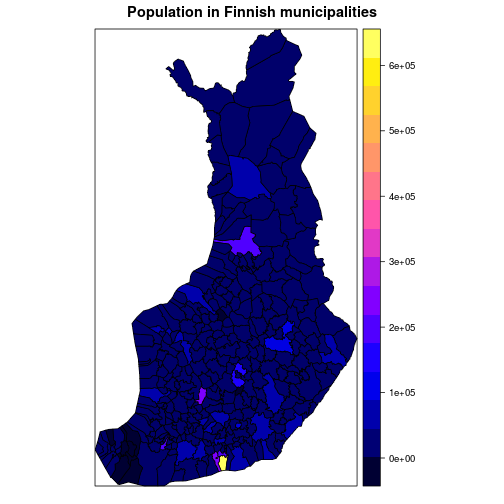
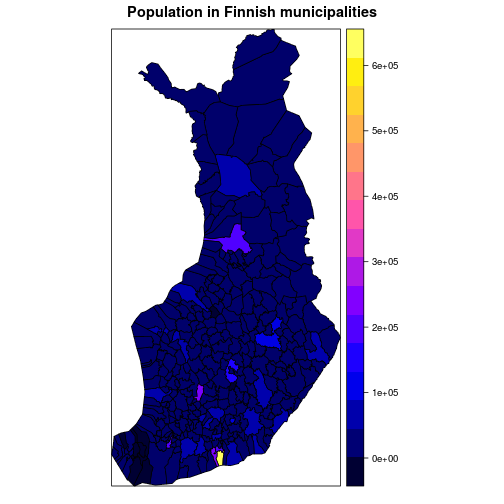
added new man files

Changed region(s): [[0.1786, 0.0298, 0.8333, 0.9821]]

diff --git a/vignettes/gisfin_tutorial.md b/vignettes/gisfin_tutorial.md
@@ -412,15 +412,13 @@ Visualize municipality population data with Land Survey Finland (MML) maps:
 
 ```r
 # Get the municipality map for visualization
-sp <- get_mml(map.id="Yleiskartta-1000", data.id="HallintoAlue")
-# Convert municipality ID to character (for matching)
-sp@data$Kunta <- as.character(sp@data$Kunta)
+sp <- get_municipality_map(data.source = "MML")
 
 # Merge the Finnish map shape file and the population data based on
 # the 'Kunta' field. The population data contains also some other
 # regions besides municipalities. These will be ignored when merged
 # with the municipality map:
-sp2 <- sp::merge(sp, mydata, all.x = TRUE, by.x = "Kunta", by.y="Kuntakoodi")
+sp2 <- sp::merge(sp, mydata, all.x = TRUE, by.x = "kuntakoodi", by.y="Kuntakoodi")
 
 # Plot the shape file, colour municipalities by population
 spplot(sp2, zcol="Asukasluku", colorkey=TRUE, main = "Population in Finnish municipalities")
@@ -428,8 +426,18 @@ spplot(sp2, zcol="Asukasluku", colorkey=TRUE, main = "Population in Finnish muni
 
 ![plot of chunk gisfin-owndata1](figure/gisfin-owndata1-1.png) 
 
+You can also use fast wrapper for interactive visualization. This generates ggplot2-object that can be further modified if necessary:
 
-Same with GADM maps. You can select the desired maps at the [GADM service](http://gadm.org/country). Choose Finland and file format R. This will give the [link to the Finnish municipality data file](http://biogeo.ucdavis.edu/data/gadm2/R/FIN_adm4.RData):
+
+```r
+p <- region_plot(sp2, color = "Asukasluku", region = "kuntakoodi")
+print(p)
+```
+
+![plot of chunk regionplotwrapper](figure/regionplotwrapper-1.png) 
+
+
+Same with GADM maps. You can select the desired maps at the [GADM service](http://gadm.org/country). Choose Finland and file format R. This will give the [link to the Finnish municipality data file](http://biogeo.ucdavis.edu/data/gadm2/R/FIN_adm4.RData). GADM contains very useful maps but the Finnish municipality map data seems a bit outdated:
 
 
 ```r
@@ -451,6 +459,8 @@ spplot(gadm2, zcol="Asukasluku", colorkey=TRUE, main = "Population in Finnish mu
 ```
 
 ![plot of chunk gisfin-owndata2](figure/gisfin-owndata2-1.png) 
+
+
 
 
 ----
@@ -649,21 +659,21 @@ sessionInfo()
 ## [1] stats     graphics  grDevices utils     datasets  methods   base     
 ## 
 ## other attached packages:
-##  [1] pxweb_0.5.53       raster_2.3-40      sotkanet_0.9.11   
-##  [4] rjson_0.2.15       RCurl_1.95-4.6     bitops_1.0-6      
-##  [7] ggplot2_1.0.1      maptools_0.8-36    gisfin_0.9.24     
-## [10] R6_2.0.1           rgdal_0.9-3        sp_1.1-0          
-## [13] knitr_1.10.5       scimapClient_0.2.1
+##  [1] raster_2.3-40      pxweb_0.5.53       ggplot2_1.0.1     
+##  [4] maptools_0.8-36    gisfin_0.9.25      R6_2.0.1          
+##  [7] rgdal_0.9-3        sp_1.1-0           knitr_1.10.5      
+## [10] scimapClient_0.2.1
 ## 
 ## loaded via a namespace (and not attached):
 ##  [1] Rcpp_0.11.6      spdep_0.5-88     formatR_1.2      plyr_1.8.2      
-##  [5] LearnBayes_2.15  tools_3.2.0      boot_1.3-16      digest_0.6.8    
-##  [9] jsonlite_0.9.16  evaluate_0.7     gtable_0.1.2     nlme_3.1-120    
-## [13] lattice_0.20-31  Matrix_1.2-0     proto_0.3-10     coda_0.17-1     
-## [17] httr_0.6.1       stringr_1.0.0    rgeos_0.3-8      grid_3.2.0      
-## [21] data.table_1.9.4 XML_3.98-1.2     foreign_0.8-63   RJSONIO_1.3-0   
-## [25] reshape2_1.4.1   deldir_0.1-9     magrittr_1.5     scales_0.2.4    
-## [29] MASS_7.3-40      splines_3.2.0    colorspace_1.2-6 labeling_0.3    
-## [33] stringi_0.4-1    munsell_0.4.2    chron_2.3-45
+##  [5] bitops_1.0-6     LearnBayes_2.15  tools_3.2.0      boot_1.3-16     
+##  [9] digest_0.6.8     jsonlite_0.9.16  evaluate_0.7     gtable_0.1.2    
+## [13] nlme_3.1-120     lattice_0.20-31  Matrix_1.2-0     proto_0.3-10    
+## [17] coda_0.17-1      httr_0.6.1       stringr_1.0.0    rgeos_0.3-8     
+## [21] grid_3.2.0       data.table_1.9.4 XML_3.98-1.2     foreign_0.8-63  
+## [25] RJSONIO_1.3-0    reshape2_1.4.1   deldir_0.1-9     magrittr_1.5    
+## [29] scales_0.2.4     MASS_7.3-40      splines_3.2.0    colorspace_1.2-6
+## [33] labeling_0.3     stringi_0.4-1    RCurl_1.95-4.6   munsell_0.4.2   
+## [37] chron_2.3-45     rjson_0.2.15
 ```
 
